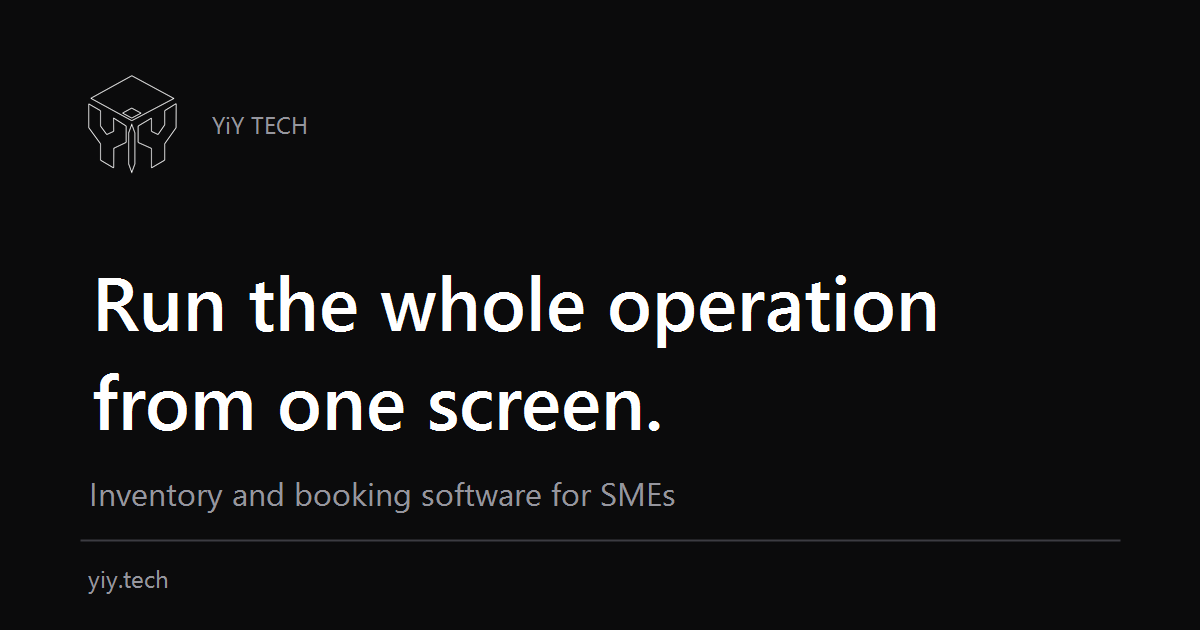
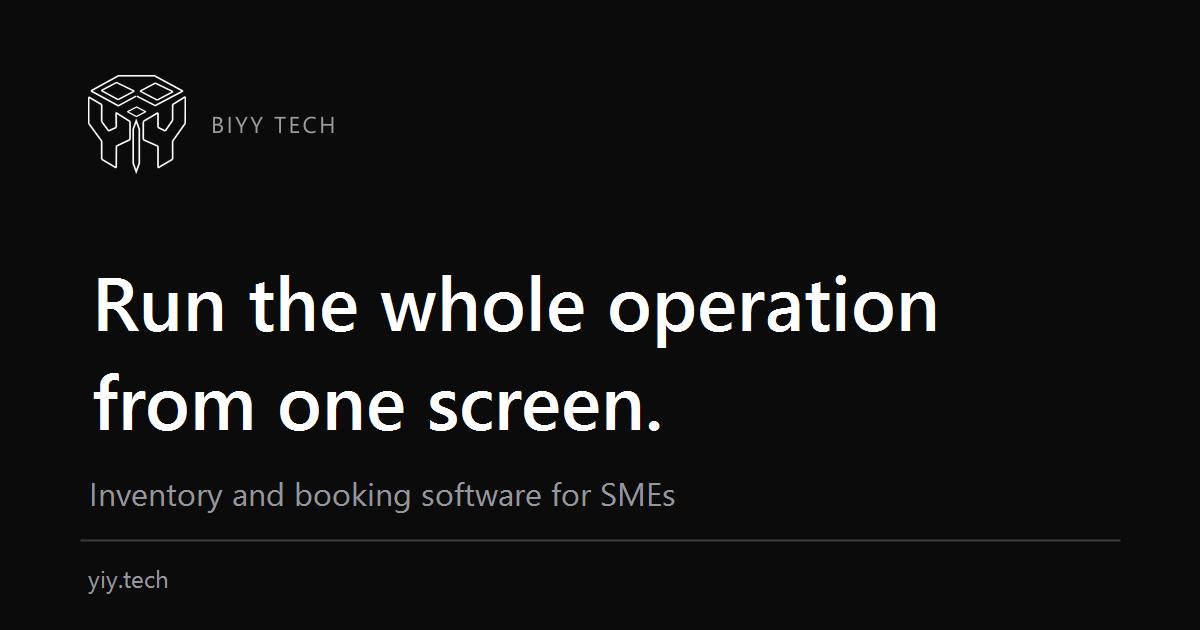
favico

Changed region(s): [[0.0617, 0.1206, 0.2775, 0.2714]]

diff --git a/src/app/manifest.js b/src/app/manifest.js
@@ -2,9 +2,11 @@ import { company } from '@/lib/site';
 
 /**
  * Emits /manifest.webmanifest and the <link rel="manifest"> that goes with it.
- * The icons here are the same near-black tiles as favicon.ico and icon.png, at
- * the two sizes Android installs expect; they live in /public so their URLs are
- * stable across builds rather than carrying a content hash.
+ * The icons here are the same accent tiles as favicon.ico, at the two sizes
+ * Android installs expect; they live in /public so their URLs are stable across
+ * builds rather than carrying a content hash. background_color stays ink: the
+ * splash is the site's surface, and the blue tile is meant to sit on it rather
+ * than fill it.
  */
 export default function manifest() {
   return {
@@ -16,8 +18,8 @@ export default function manifest() {
     background_color: '#0B0B0C',
     theme_color: '#0B0B0C',
     icons: [
-      { src: '/brand/yiy-icon-192.png', sizes: '192x192', type: 'image/png', purpose: 'any' },
-      { src: '/brand/yiy-icon-512.png', sizes: '512x512', type: 'image/png', purpose: 'any' },
+      { src: '/brand/biyy-icon-192.png', sizes: '192x192', type: 'image/png', purpose: 'any' },
+      { src: '/brand/biyy-icon-512.png', sizes: '512x512', type: 'image/png', purpose: 'any' },
     ],
   };
 }

diff --git a/src/app/layout.jsx b/src/app/layout.jsx
@@ -36,11 +36,11 @@ export const metadata = {
   // requests gets an exact match below; see scripts/generate-icons.mjs.
   icons: {
     icon: [
-      { url: '/brand/yiy-icon-16.png', type: 'image/png', sizes: '16x16' },
-      { url: '/brand/yiy-icon-24.png', type: 'image/png', sizes: '24x24' },
-      { url: '/brand/yiy-icon-32.png', type: 'image/png', sizes: '32x32' },
-      { url: '/brand/yiy-icon-48.png', type: 'image/png', sizes: '48x48' },
-      { url: '/brand/yiy-icon-192.png', type: 'image/png', sizes: '192x192' },
+      { url: '/brand/biyy-icon-16.png', type: 'image/png', sizes: '16x16' },
+      { url: '/brand/biyy-icon-24.png', type: 'image/png', sizes: '24x24' },
+      { url: '/brand/biyy-icon-32.png', type: 'image/png', sizes: '32x32' },
+      { url: '/brand/biyy-icon-48.png', type: 'image/png', sizes: '48x48' },
+      { url: '/brand/biyy-icon-192.png', type: 'image/png', sizes: '192x192' },
       { url: '/favicon.ico', type: 'image/x-icon', sizes: '16x16 24x24 32x32 48x48 64x64' },
     ],
     apple: [{ url: '/brand/apple-touch-icon.png', type: 'image/png', sizes: '180x180' }],

diff --git a/src/lib/seo.js b/src/lib/seo.js
@@ -99,10 +99,10 @@ export const organizationLd = () => ({
     '@type': 'ImageObject',
     // White mark, per brand. Note it is transparent-background RGBA, so it
     // disappears against the white surfaces some consumers composite onto
-    // (Google's knowledge panel among them). Swap to yiy-mark-black-512.png,
+    // (Google's knowledge panel among them). Swap to biyy-mark-black-512.png,
     // or ship a white mark on an ink plate, if that matters more than brand
     // consistency.
-    url: abs('/brand/yiy-mark-white-512.png'),
+    url: abs('/brand/biyy-mark-white-512.png'),
     width: 512,
     height: 512,
   },

diff --git a/src/components/Logo.jsx b/src/components/Logo.jsx
@@ -2,8 +2,8 @@ import Image from 'next/image';
 import Link from '@/components/Link';
 
 const MARKS = {
-  dark: '/brand/yiy-mark-white-512.png',
-  light: '/brand/yiy-mark-black-512.png',
+  dark: '/brand/biyy-mark-white-512.png',
+  light: '/brand/biyy-mark-black-512.png',
 };
 
 export function Mark({ variant = 'light', size = 30, className = '', priority = false }) {
